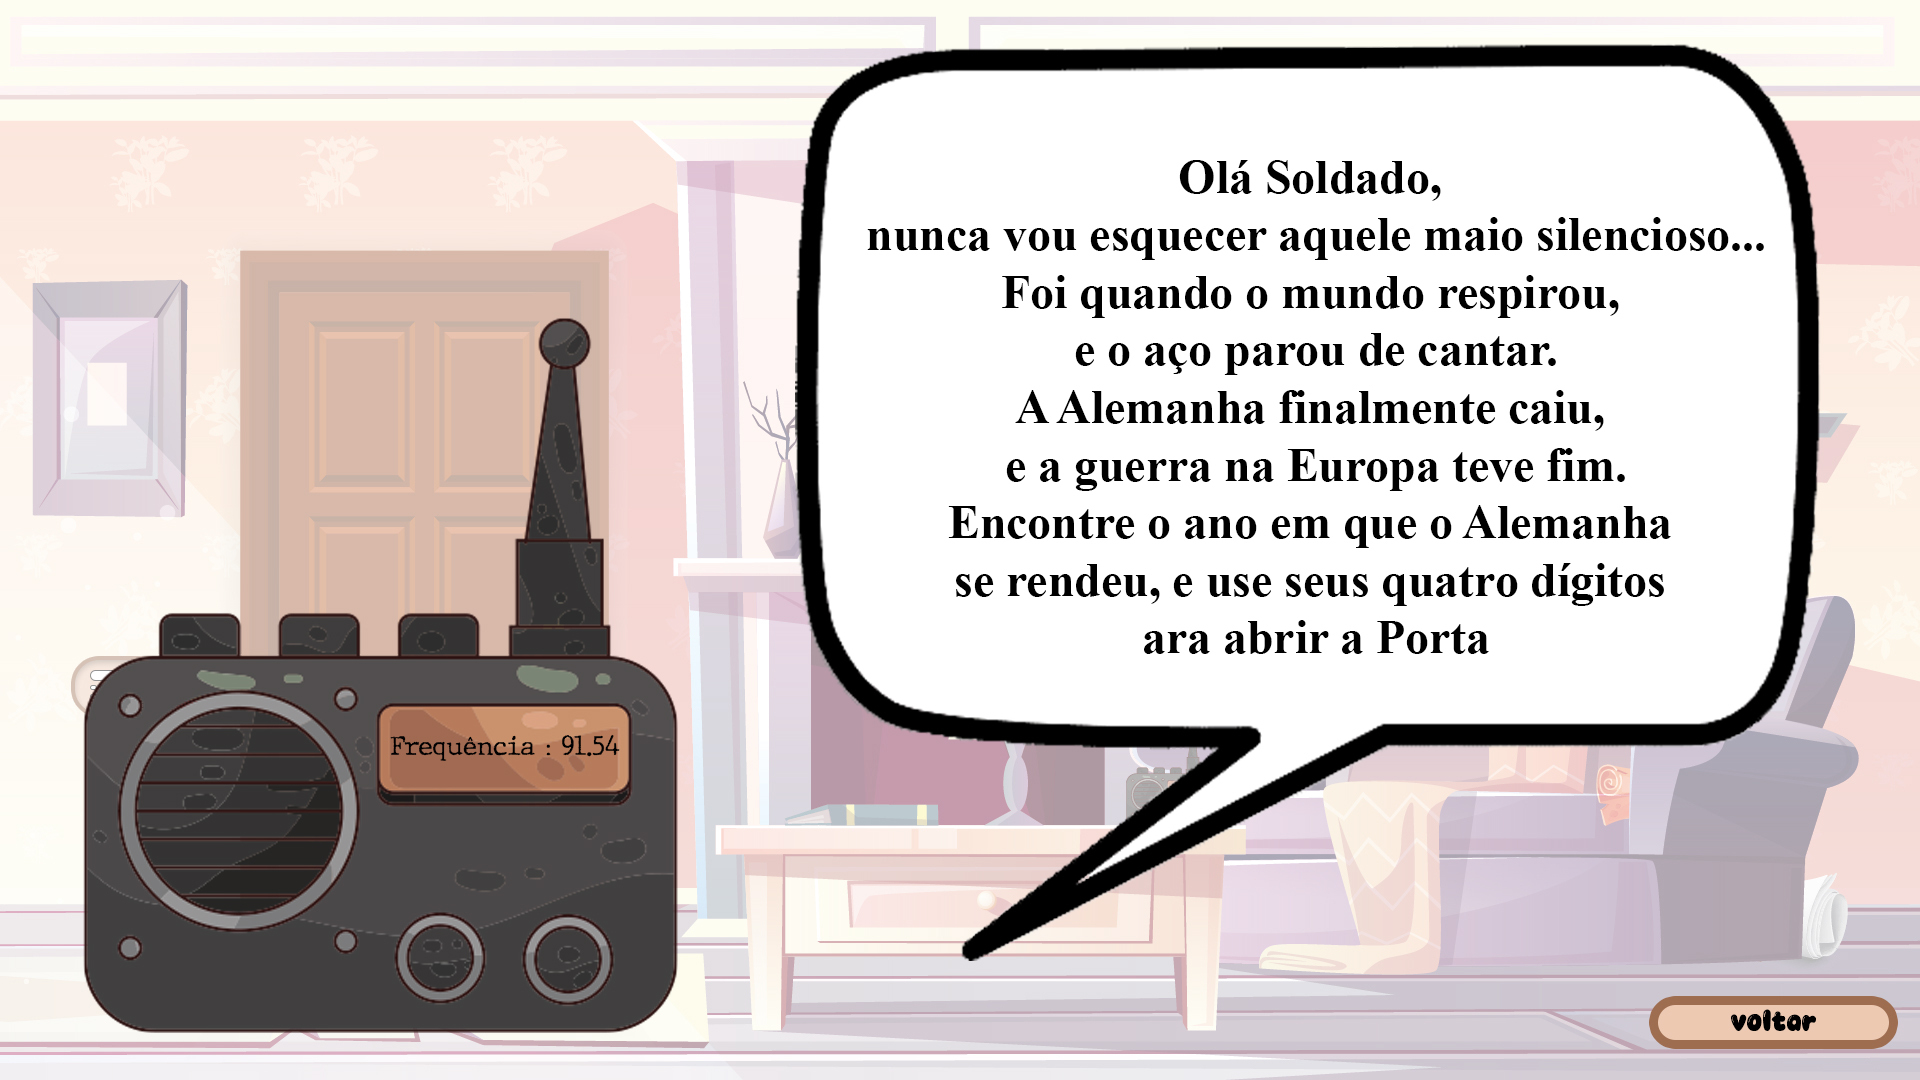
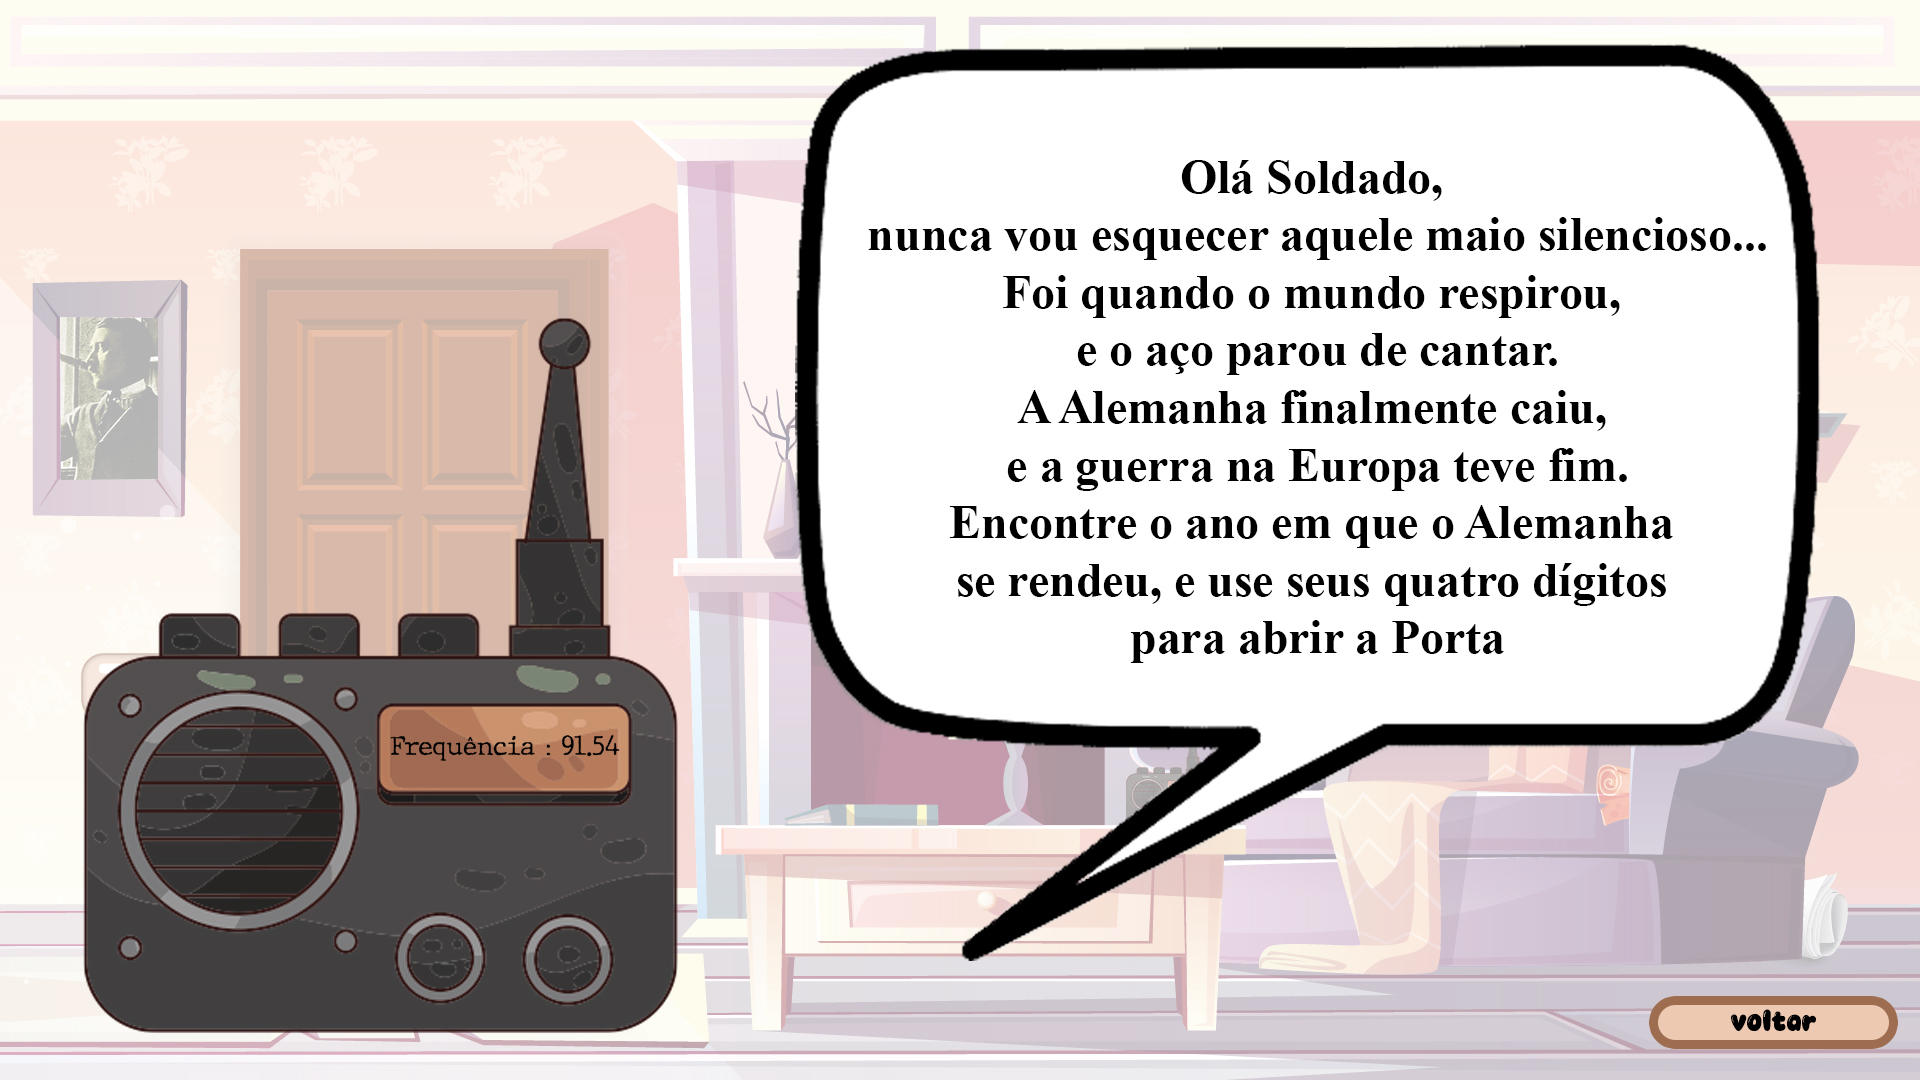
Atualização
Correção de erros e atualização de imagens

diff --git a/Menu.py b/Menu.py
@@ -17,7 +17,7 @@ clicou = False
 BRANCO = (255, 255, 255)
 LARANJA_ESCURO = (194, 103, 0)
 LARANJA_CLARO = (255, 178, 79)
-
+PRETO = (0, 0, 0)
 # Fonte
 fonte = pygame.font.SysFont("comicsansms", 40)
 
@@ -68,13 +68,7 @@ def jogar():
     estado = "fase1"
     senha_digitada = ""
 
-    imagens_locais = {
-        "fase": pygame.image.load("img/fase1.jpg"),
-        #"fase2": pygame.image.load("img/fase2.jpg"),
-    }
 
-    for chave in imagens_locais:
-        imagens_locais[chave] = pygame.transform.scale(imagens_locais[chave], (LARGURA, ALTURA))
 
     imagemradio = False
     imagemfolha = False
@@ -86,7 +80,12 @@ def jogar():
     imgescaravelho = False
     imgesfingecama = False
     imgesfingevazo = False
-
+    imgrio1 = False
+    imgrio2 = False
+    imgdomP = False
+    imgcavalo = False
+    imgband = False
+    imgenigma = False
 
     rodando = True
     while rodando:
@@ -110,9 +109,9 @@ def jogar():
             cenamapa = pygame.transform.scale(cenamapa,(LARGURA, ALTURA))
 
             imagemradio = ponto_interagivel(imagemradio,751, 539, 50, 50)
-            imagemfolha = ponto_interagivel(imagemfolha, 1064, 530, 40, 40)
+            imagemfolha = ponto_interagivel(imagemfolha, 1200, 600, 30, 65)
             imagemquadro = ponto_interagivel(imagemquadro,834,188,110,120)
-            imagemmapa = ponto_interagivel(imagemmapa,1200,600,30,65)
+            imagemmapa = ponto_interagivel(imagemmapa,1064,530,40,40)
             
             if imagemradio:
                 TELA.blit(cenaradio, (0,0))
@@ -125,9 +124,9 @@ def jogar():
             else:
                 TELA.blit(fase1,(0,0))
 
-        if botao_invisivel_click(48, 457, 100, 50):
-            estado = "senha"
-            senha_digitada = ""
+            if botao_invisivel_click(48, 457, 100, 50):
+                estado = "senha"
+                senha_digitada = ""
 
         if estado == 'senha':
             cenasenha = pygame.image.load('img/cenasenha.jpg')
@@ -144,35 +143,55 @@ def jogar():
                     x, y = evento.pos
                     clicou = True
 
-        # Tecla 1 (x: 450, y: 330, largura: 75, altura: 45)
+        
                     if 450 <= x <= 525 and 330 <= y <= 375:
                         if len(senha_digitada) < 4:
                             senha_digitada += "1"
 
-                    # Tecla 9 (x: 611, y: 462, largura: 75, altura: 80)
+                    
                     elif 611 <= x <= 686 and 462 <= y <= 542:
                         if len(senha_digitada) < 4:
                             senha_digitada += "9"
 
-                    # Tecla 4 (x: 450, y: 395, largura: 75, altura: 80)
+                    
                     elif 450 <= x <= 525 and 395 <= y <= 475:
                         if len(senha_digitada) < 4:
                             senha_digitada += "4"
 
-                    # Tecla 5 (x: 533, y: 395, largura: 75, altura: 80)
+                    
                     elif 533 <= x <= 608 and 395 <= y <= 475:
                         if len(senha_digitada) < 4:
                             senha_digitada += "5"
 
-                    # Confirmar (x: 711, y: 350, largura: 160, altura: 50)
+                    
                     elif 711 <= x <= 871 and 350 <= y <= 400:
                         if senha_digitada == "1945":
                             estado = "fase2"
                         else:
                 
                             senha_digitada = ""  
+
                 elif evento.type == pygame.MOUSEBUTTONUP:
                     clicou = False  
+
+                if(len(senha_digitada) == 1):
+                    pygame.draw.circle(TELA, PRETO, (423, 283), radius = 25)
+
+                elif(len(senha_digitada) == 2):
+                    pygame.draw.circle(TELA, PRETO, (423, 283), radius = 25)
+                    pygame.draw.circle(TELA, PRETO, (523, 283), radius = 25)
+
+                elif(len(senha_digitada) == 3):
+                    pygame.draw.circle(TELA, PRETO, (423, 283), radius = 25)
+                    pygame.draw.circle(TELA, PRETO, (523, 283), radius = 25)
+                    pygame.draw.circle(TELA, PRETO, (623, 283), radius = 25)
+
+                elif(len(senha_digitada) == 4):
+                    pygame.draw.circle(TELA, PRETO, (423, 283), radius = 25)
+                    pygame.draw.circle(TELA, PRETO, (523, 283), radius = 25)
+                    pygame.draw.circle(TELA, PRETO, (623, 283), radius = 25)
+                    pygame.draw.circle(TELA, PRETO, (723, 283), radius = 25)
+
 
         if estado == 'fase2':
             imgfase2 = pygame.image.load('img/imgfase2.jpg')
@@ -199,6 +218,11 @@ def jogar():
             imgescaravelho = ponto_interagivel(imgescaravelho, 451, 441, 15, 35)
             imgesfingevazo = ponto_interagivel(imgesfingevazo, 1090, 620, 80, 70)
             imgesfingecama = ponto_interagivel(imgesfingecama, 308, 504 , 52, 86)
+            if (botao_invisivel_click(20, 438, 50, 22)):
+                estado = 'senha2'
+                senha_digitada = ''
+                fonte = pygame.font.Font(None, 48)
+                texto_digitado = ""
 
             if(imgpapiro):
                 TELA.blit(cenapapiro, (0,0))
@@ -216,12 +240,85 @@ def jogar():
                 TELA.blit(imgfase2, (0,0))
 
 
-        elif estado in imagens_locais:
-            TELA.blit(imagens_locais[estado], (0, 0))
+        if(estado == 'senha2'):
+            cenasenha2 = pygame.image.load('img/cenasenha2.jpg')
+            cenasenha2 = pygame.transform.scale(cenasenha2, (LARGURA, ALTURA))
+            for evento in pygame.event.get():
+                 if evento.type == pygame.KEYDOWN:
+                    if evento.key == pygame.K_BACKSPACE:
+                            texto_digitado = texto_digitado[:-1]
+                    else:
+                            texto_digitado += evento.unicode
+
+            
+            if (botao_invisivel_click(767,367, 160, 50)):
+                estado = 'fase2'
+
+
+            if(botao_invisivel_click(408, 367, 160, 50)):
+                if(texto_digitado.upper() == 'ESFINGE DE GIZE' or texto_digitado.upper() == 'ESFINGE DE GIZÉ'):
+
+                    estado = 'fase3'
+            print(texto_digitado)
+
+
+        
+            superficie_texto = fonte.render(texto_digitado, True, (0, 0, 0)) 
+            TELA.blit(cenasenha2, (0 , 0))
+            TELA.blit(superficie_texto, (425, 299))
+        
+
+        if(estado == 'fase3'):
+            imgfase3 = pygame.image.load('img/fase3.jpg')
+            imgfase3 = pygame.transform.scale(imgfase3, (LARGURA, ALTURA))
+
+            cenario1 = pygame.image.load('img/cena_rio1.jpg')
+            cenario1 = pygame.transform.scale(cenario1, (LARGURA, ALTURA))
+            cenario2 = pygame.image.load('img/cena_rio2.jpg')
+            cenario2 = pygame.transform.scale(cenario2, (LARGURA, ALTURA))
+            cenadomP = pygame.image.load('img/cenadompedro.jpg')
+            cenadomP = pygame.transform.scale(cenadomP, (LARGURA, ALTURA))
+            cenaenigma2 = pygame.image.load('img/cenaenigma2.jpg')
+            cenaenigma2 = pygame.transform.scale(cenaenigma2, (LARGURA, ALTURA))
+            cenaband = pygame.image.load('img/cenaband.jpg')
+            cenaband = pygame.transform.scale(cenaband, (LARGURA, ALTURA))
+            cenacavalo = pygame.image.load('img/cenacavalo.jpg')
+            cenacavalo = pygame.transform.scale(cenacavalo, (LARGURA, ALTURA))
+            
+            imgrio1 = ponto_interagivel(imgrio1, 895, 96, 50, 56)
+            imgrio2 = ponto_interagivel(imgrio2, 956, 126, 70, 80)
+            imgdomP = ponto_interagivel(imgdomP, 447, 52, 120, 150)
+            imgenigma = ponto_interagivel(imgenigma, 523, 421 ,13, 30)
+            imgband = ponto_interagivel(imgband, 874, 336, 35, 42)
+            imgcavalo = ponto_interagivel(imgcavalo, 330, 193, 30, 30)
+
+            
+            if(imgrio1):
+                TELA.blit(cenario1, (0,0))
+
+            elif(imgrio2):
+                TELA.blit(cenario2, (0,0))
+
+            elif(imgdomP):
+                TELA.blit(cenadomP, (0,0))
+
+            elif(imgenigma):
+                TELA.blit(cenaenigma2, (0,0))
+
+            elif(imgband):
+                TELA.blit(cenaband, (0,0))
+
+            elif(imgcavalo):
+                TELA.blit(cenacavalo, (0,0))
+
+            else:
+                TELA.blit(imgfase3, (0,0))
+
 
         pygame.display.update()
-        print(senha_digitada)
-        print(pygame.mouse.get_pos())
+        print(estado)
+    
+        
 
 def creditos():
     print("Autores do projeto...")
